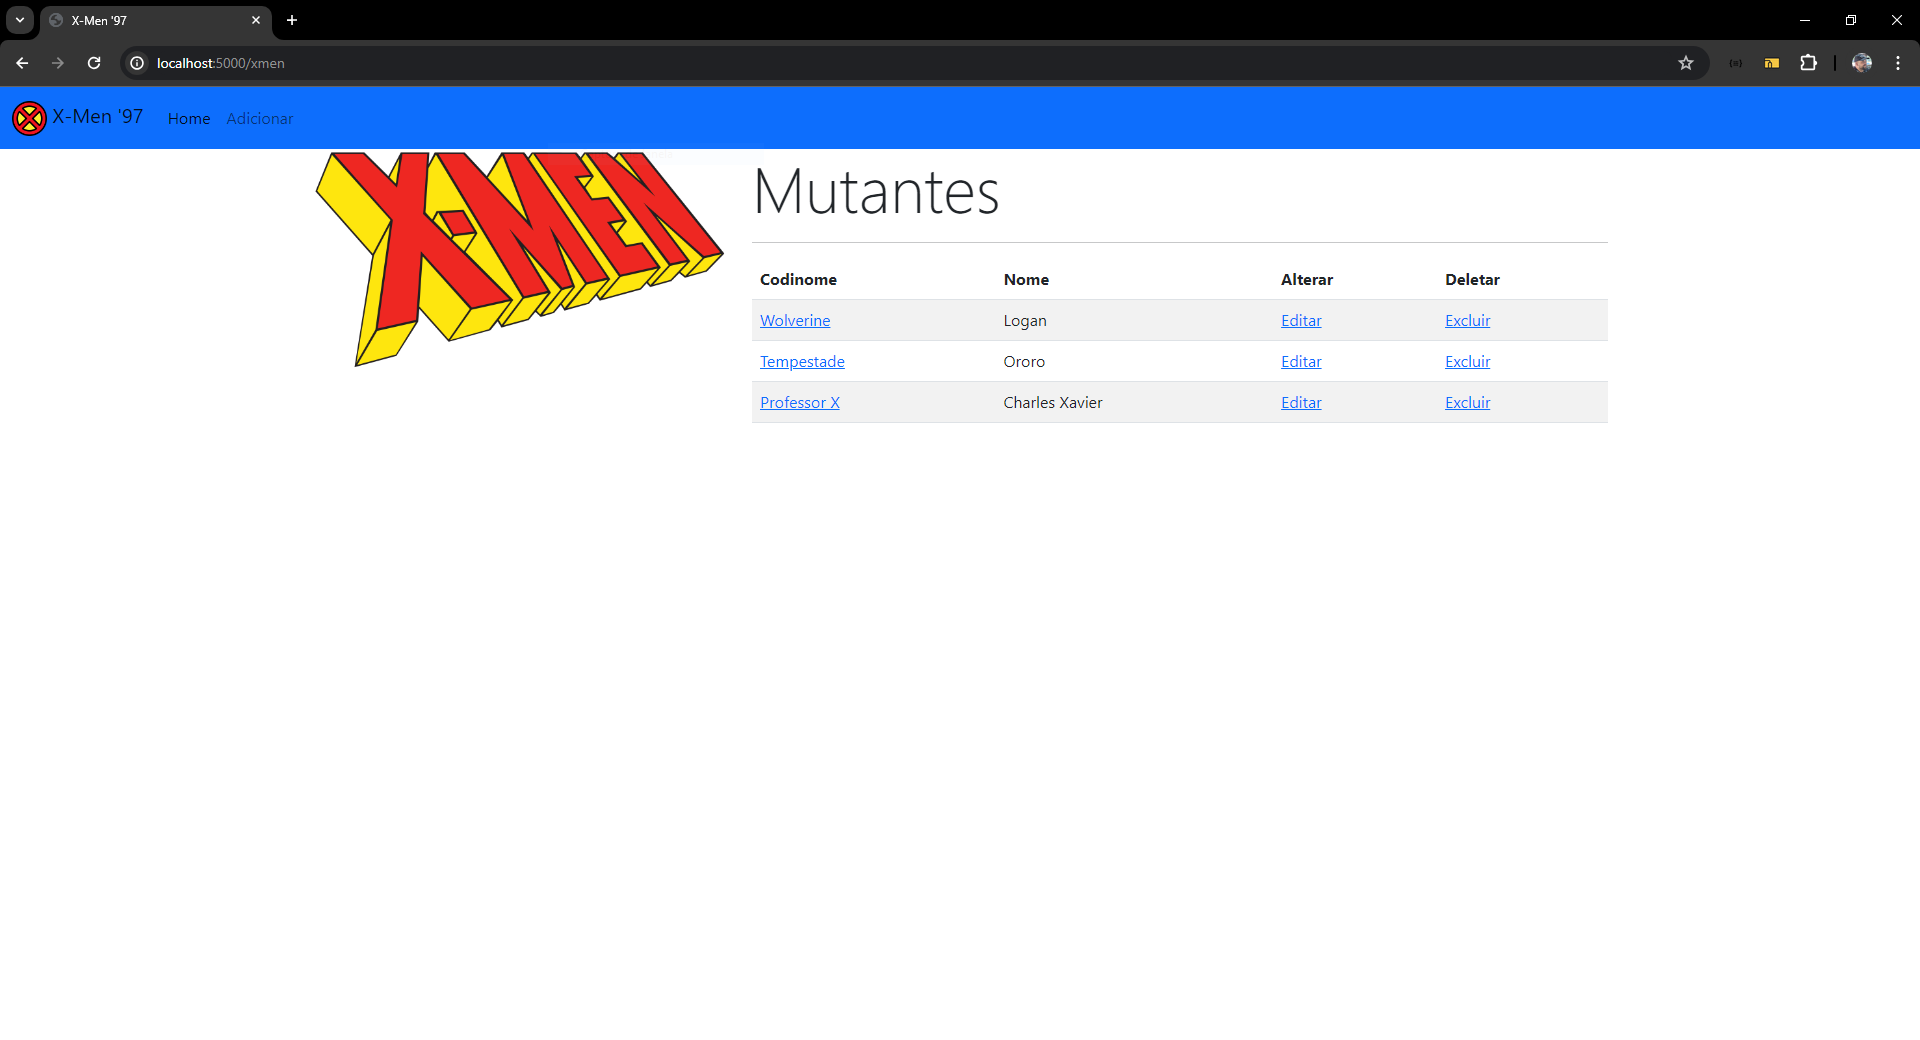
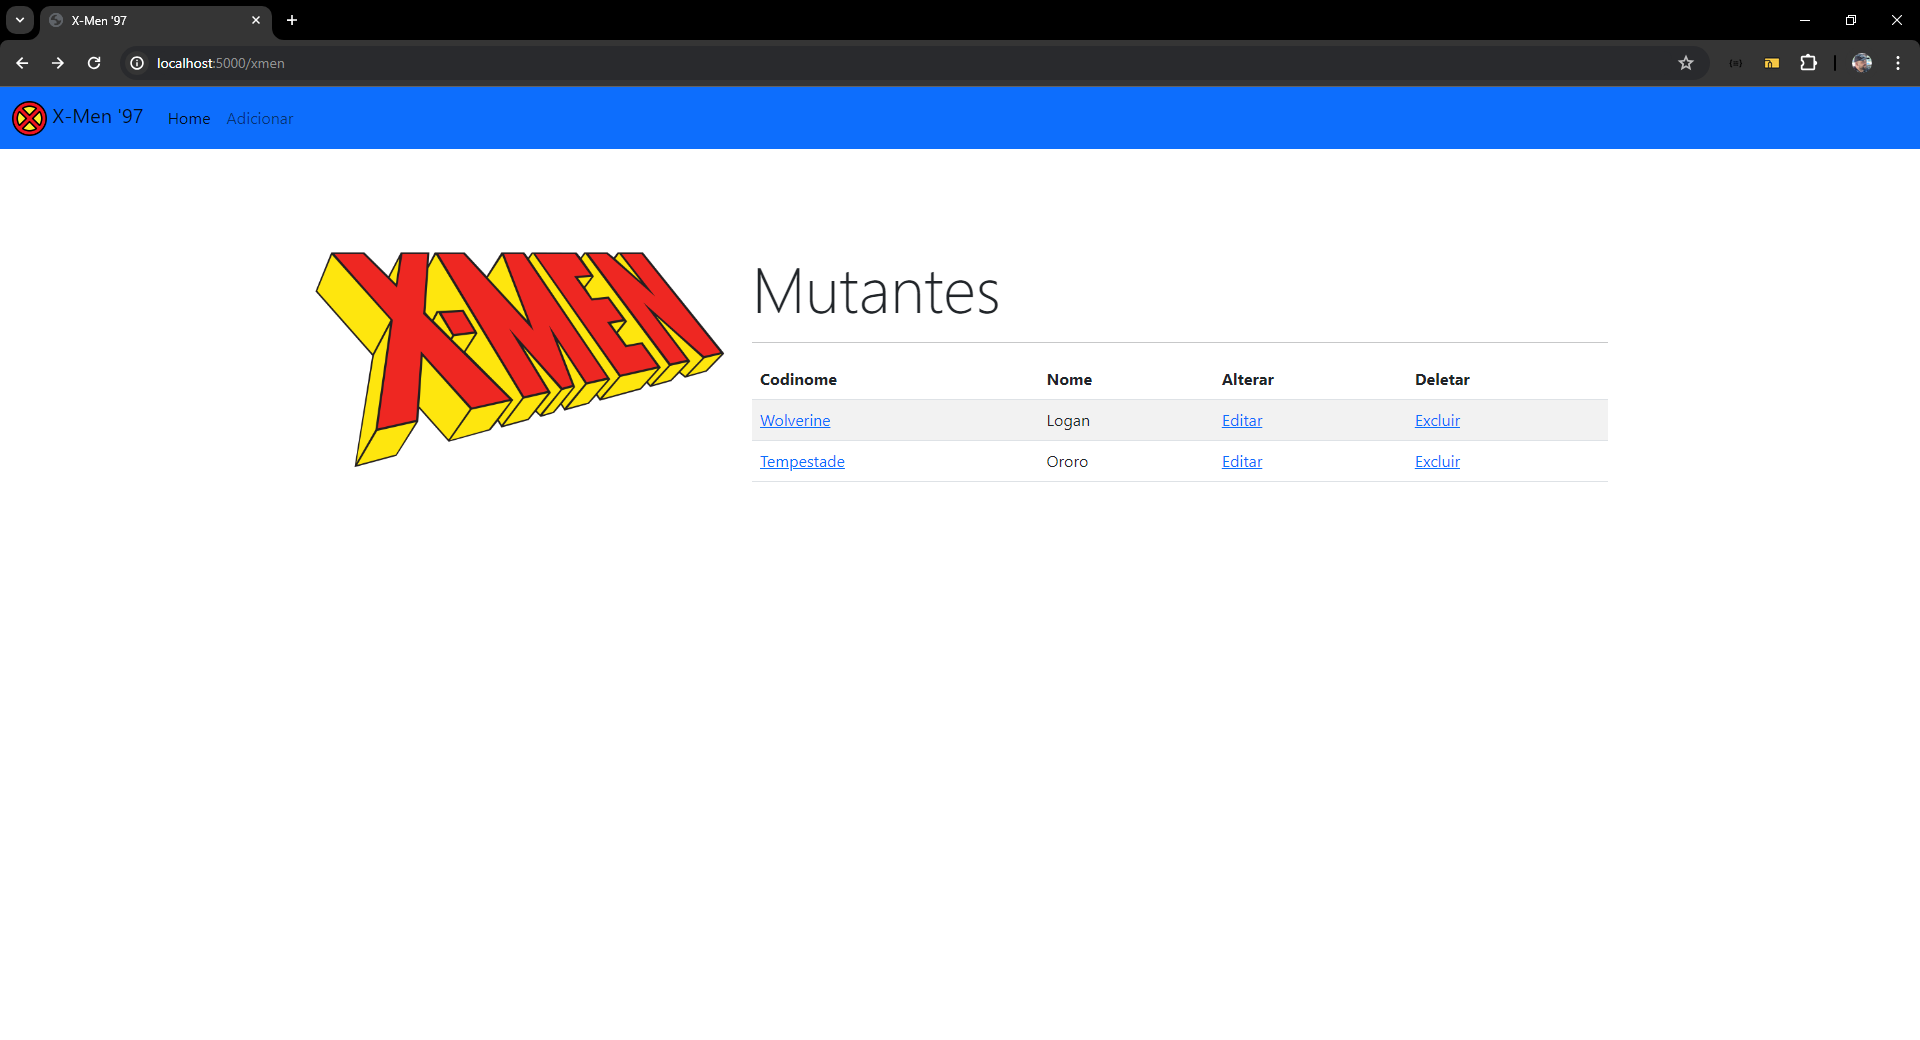
templates/base.html

diff --git a/templates/base.html b/templates/base.html
@@ -30,7 +30,7 @@
       </nav>
    </header>
    <body>
-      <div class="container">
+      <div class="container" style="margin-top: 100px;">
          <div class="row">
             <div class="col-4"><img src="{{ url_for('static', filename='logo.png') }}" alt="X-Men" width="500" class="img-fluid mx-auto d-block" /></div>
             <div class="col-8">{% block content %} {% endblock %}</div>
